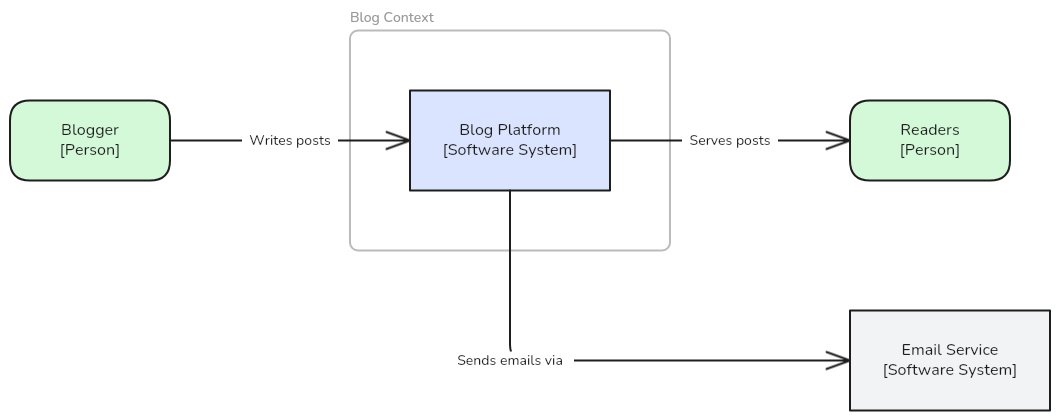
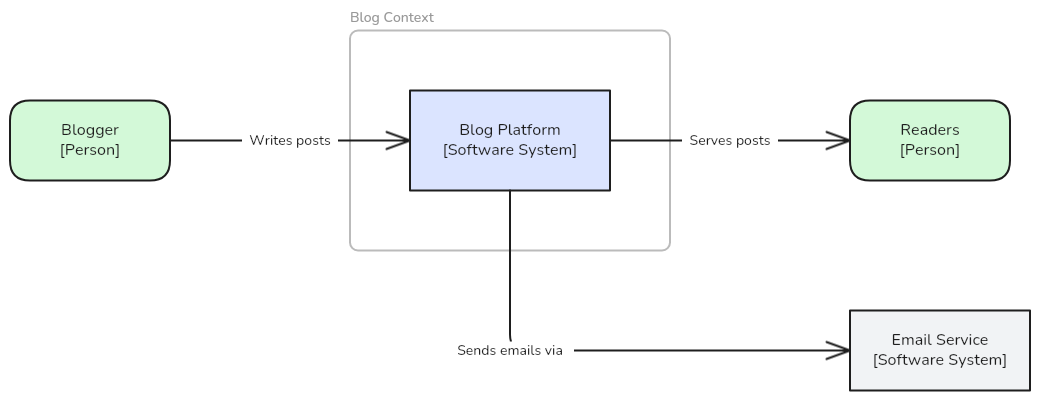
feat: add workflow iteration loops and regenerate C4 examples from prompts
- agent.md: add Step 5.5 Visual QA -- after rendering, the agent reads the
  PNG, checks for visual issues (label proximity, text overflow, spacing
  balance, arrow routing), fixes and re-renders up to 3 times until clean;
  update Step 4 to use --json mode so warnings are machine-parseable
- SKILL.md: add Design Summary requirement -- before delegating to the agent
  the skill must produce a structured elements/connections/frames/direction
  summary for user approval; add Post-generation Review -- after the agent
  returns the PNG the skill shows it and asks for feedback
- assets/examples/c4/*.input.json: persist builder input JSONs in the repo
  so examples are fully reproducible (node build.mjs <input.json>)
- Regenerate all 3 C4 examples from PROMPTS.md natural-language prompts
  (not hand-crafted JSON): simple blog context, medium bookstore containers,
  complex order components; fix medium bookstore HTTPS connection (was
  incorrectly marked dashed -- HTTPS is synchronous)
- All 3 pass validate.mjs --json with zero warnings including V5

Changed region(s): [[0.0, 0.03, 1.0, 0.99], [0.0, 0.21, 0.1538, 0.3], [0.0615, 0.3, 0.1231, 0.39]]

diff --git a/plugins/diagramming/excalidraw-diagrams/agents/excalidraw-builder/agent.md b/plugins/diagramming/excalidraw-diagrams/agents/excalidraw-builder/agent.md
@@ -81,13 +81,14 @@ On error: fix the input JSON based on the error message and retry.
 
 ```bash
 cd "${CLAUDE_SKILL_DIR}/scripts"
-node validate.mjs /path/to/output.excalidraw
+node validate.mjs /path/to/output.excalidraw --json
 ```
 
-- Exit 0: proceed to render
-- Exit 1 (errors): read the error messages, correct the issue (either fix the
-  input JSON and re-run build, or make targeted edits to the `.excalidraw` file),
-  then re-validate
+- Exit 0 (no output or empty `[]`): proceed to render
+- Exit 1 (errors/warnings): parse the JSON array, address each issue:
+  - Structural errors (S1-S6): fix the `.excalidraw` file or rebuild from corrected input
+  - Visual warnings (V1-V5): adjust spacing/positions in input JSON, rebuild
+  - Re-run validate until exit 0 before proceeding
 - Exit 2: bad file — diagnose and fix
 
 ### Step 5 — Render
@@ -99,6 +100,27 @@ node render.mjs /path/to/output.excalidraw
 
 On success: `Rendered: <width>x<height> → /path/to/output.png`
 
+### Step 5.5 — Visual QA
+
+Read the rendered PNG and inspect it for visual issues. Check for:
+
+1. **Label proximity** — any label too close to a frame border, another arrow, or a shape
+2. **Text overflow** — text clipped or extending outside its shape
+3. **Spacing balance** — some gaps much larger or smaller than others
+4. **Arrow routing** — arrows crossing shapes they shouldn't; excessive diagonal lines
+5. **Readability** — any element that looks crowded, unclear, or hard to follow
+
+If any issue is found:
+
+- Describe the specific fix needed (e.g. "increase spacing between X and Y", "move
+  label for arrow Z outside the frame")
+- Apply the fix: either adjust the input JSON and re-run build, or make a targeted
+  edit to the `.excalidraw` file
+- Re-run validate → render → inspect again
+- Iterate up to 3 times total (same retry limit as error handling)
+
+Only proceed to Step 6 when the diagram looks clean and all visual rules are satisfied.
+
 ### Step 6 — Return result
 
 Report back to the skill:
@@ -106,6 +128,7 @@ Report back to the skill:
 - Path to the `.excalidraw` file
 - Path to the rendered `.png` file
 - Any warnings from validation that the user should be aware of
+- How many visual QA iterations were needed and what was fixed
 - Whether any manual corrections were made during build
 
 ---

diff --git a/plugins/diagramming/excalidraw-diagrams/skills/excalidraw-diagrams/SKILL.md b/plugins/diagramming/excalidraw-diagrams/skills/excalidraw-diagrams/SKILL.md
@@ -28,9 +28,21 @@ user wants, then delegate technical generation to the `excalidraw-builder` agent
    - Relationships and data flows between them
    - Groupings, boundaries, or swim lanes needed
    - Level of detail required
-4. **Confirm your understanding** — summarise the planned diagram before proceeding
+4. **Confirm your understanding** — produce a structured **Design Summary** before
+   proceeding:
 
-If the user's description is already detailed, confirm your interpretation in one message.
+   ```
+   Elements:    [each element: id | shape | role | label]
+   Connections: [each connection: from → to | label]
+   Frames:      [each boundary: name | contains]
+   Direction:   top-to-bottom | left-to-right
+   ```
+
+   Present this to the user. They can approve, amend, or reject before any diagram is
+   generated. Only proceed once the design is confirmed.
+
+If the user's description is already detailed, produce the Design Summary directly
+as your confirmation — one round-trip is enough.
 
 ### Diagram Type → Reference Card
 
@@ -83,8 +95,16 @@ Pass this description to the `excalidraw-builder` agent. The agent handles:
 - Brand styling application from `references/brand.md`
 - Binding wiring (shapes ↔ arrows ↔ labels)
 - Text positioning and sizing
-- Running `build.mjs`, `validate.mjs`, and `render.mjs`
+- Running `build.mjs`, `validate.mjs`, `render.mjs`, and visual QA
 - Returning the PNG for your review
+
+### Post-generation Review
+
+When the agent returns the PNG, show it to the user and ask:
+> "Here is your diagram. Does it look right, or would you like any adjustments?"
+
+If the user requests changes, describe them to the agent (see Iteration below). You own
+the design conversation at both ends — confirm before generation, review after.
 
 ---
 
